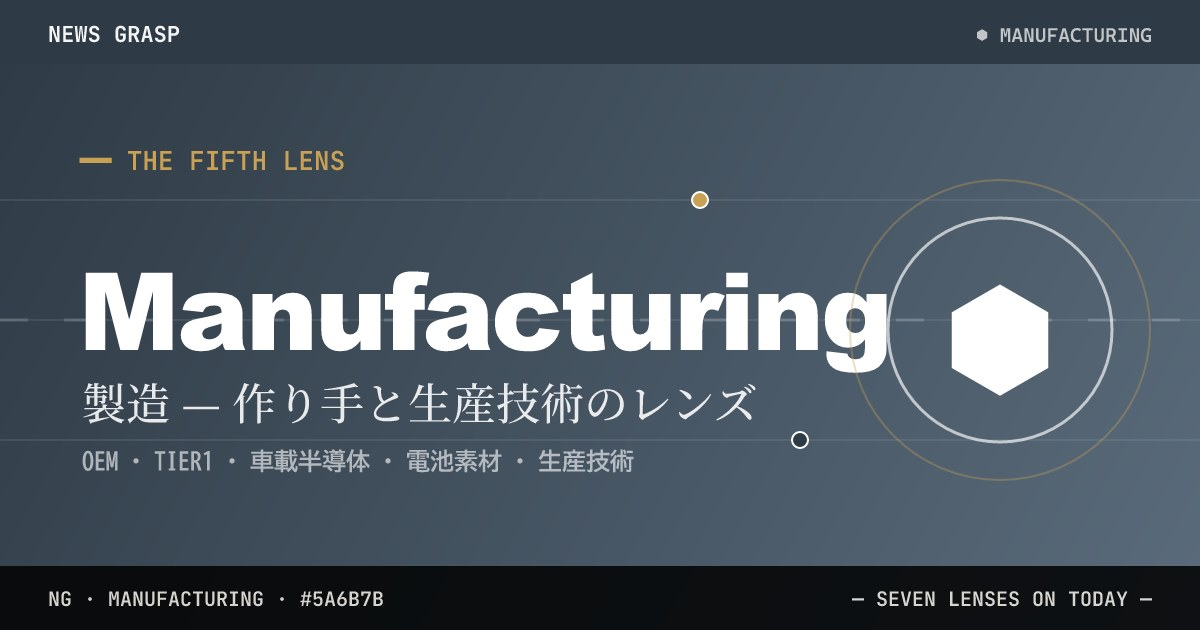
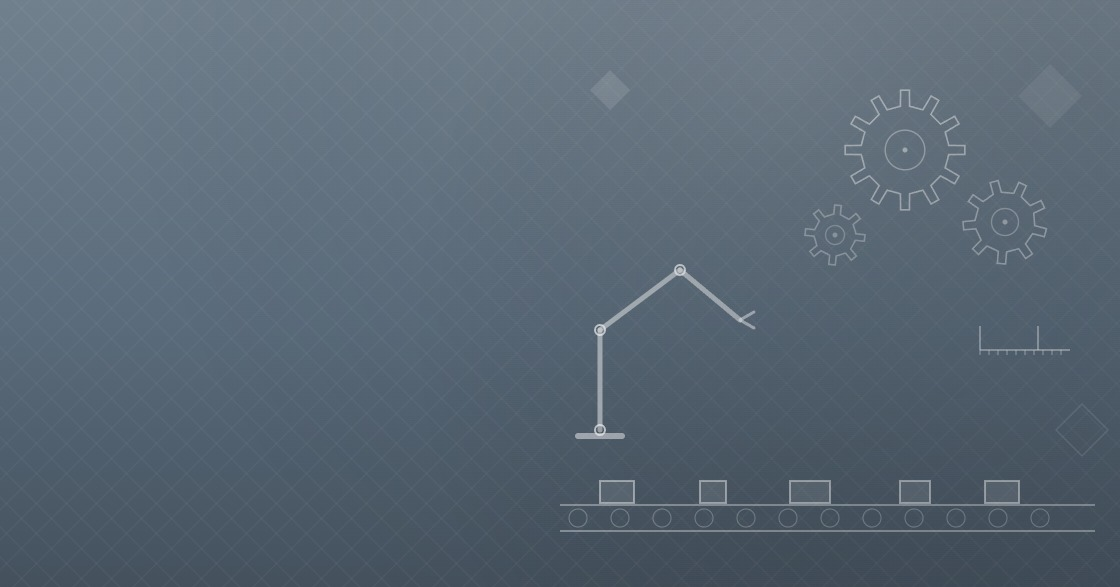
Apply redesigned category hero backgrounds
Replace Mobility and Manufacturing hero background assets, bump the service worker cache version, and lock the panel-sized JPEG contract in tests.

diff --git a/docs/sw.js b/docs/sw.js
@@ -12,7 +12,7 @@
  *  activate 時に古いキャッシュをまとめて削除できる。
  */
 
-const SW_VERSION = '2026-07-02-category-normal-hero-r1';
+const SW_VERSION = '2026-07-02-category-hero-bg-r1';
 const SCOPE_PREFIX = '/News-Grasp/';
 const HTML_CACHE = `news-grasp-html-${SW_VERSION}`;
 const ASSET_CACHE = `news-grasp-assets-${SW_VERSION}`;

diff --git a/tests/test_category_hero_turn4_contract.py b/tests/test_category_hero_turn4_contract.py
@@ -10,6 +10,45 @@ from tools.config import CATEGORIES
 ROOT = Path(__file__).resolve().parent.parent
 TEMPLATE = ROOT / "prompts" / "category-template.html"
 CSS = ROOT / "docs" / "assets" / "site.css"
+OG_DIR = ROOT / "docs" / "assets" / "og"
+
+
+def _jpeg_size(path: Path) -> tuple[int, int]:
+    data = path.read_bytes()
+    cursor = 2
+    sof_markers = {
+        0xC0,
+        0xC1,
+        0xC2,
+        0xC3,
+        0xC5,
+        0xC6,
+        0xC7,
+        0xC9,
+        0xCA,
+        0xCB,
+        0xCD,
+        0xCE,
+        0xCF,
+    }
+    while cursor < len(data):
+        if data[cursor] != 0xFF:
+            cursor += 1
+            continue
+        marker = data[cursor + 1]
+        cursor += 2
+        while marker == 0xFF:
+            marker = data[cursor]
+            cursor += 1
+        if marker in {0xD8, 0xD9} or 0xD0 <= marker <= 0xD7:
+            continue
+        segment_length = int.from_bytes(data[cursor : cursor + 2], "big")
+        if marker in sof_markers:
+            height = int.from_bytes(data[cursor + 3 : cursor + 5], "big")
+            width = int.from_bytes(data[cursor + 5 : cursor + 7], "big")
+            return width, height
+        cursor += segment_length
+    raise AssertionError(f"JPEG size not found: {path}")
 
 
 def _ctx(category_id: str, pause_notice: dict[str, object] | None = None) -> dict[str, object]:
@@ -167,3 +206,8 @@ def test_css_contains_turn4_mobile_stack_and_tab_fade() -> None:
     assert "color: #1a1206;" not in css.split(".cat-hero__visual {", 1)[1].split(".cat-hero__watermark", 1)[0]
     assert "@media (max-width: 720px)" in css
     assert "grid-template-columns: 1fr" in css
+
+
+def test_mobility_and_manufacturing_hero_background_assets_are_panel_sized() -> None:
+    assert _jpeg_size(OG_DIR / "mobility.jpg") == (1120, 587)
+    assert _jpeg_size(OG_DIR / "manufacturing.jpg") == (1120, 587)

diff --git a/tests/test_home_variant_b.py b/tests/test_home_variant_b.py
@@ -445,7 +445,7 @@ def test_feature_note_is_limited_to_lp_and_category_templates():
 def test_score_note_publish_bumps_service_worker_version():
     """CSS / 生成HTML の公開時に古いPWAキャッシュへ残らないよう SW_VERSION を上げる。"""
     sw = (ROOT / "docs" / "sw.js").read_text(encoding="utf-8")
-    assert "2026-07-02-category-normal-hero-r1" in sw
+    assert "2026-07-02-category-hero-bg-r1" in sw
 
 
 def test_score_note_prefers_current_dataset_signals():
